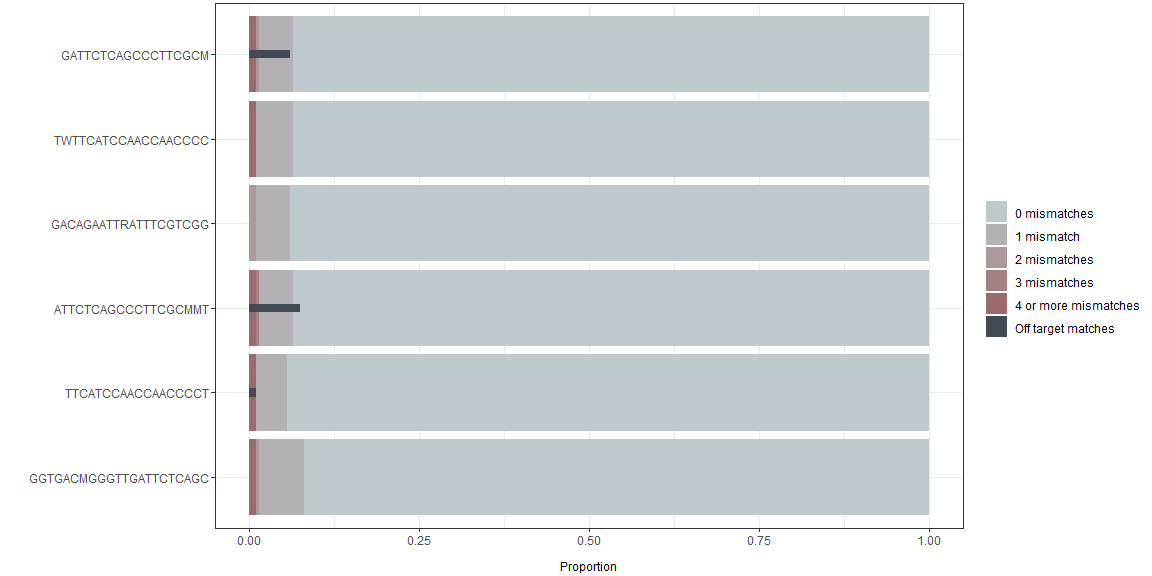
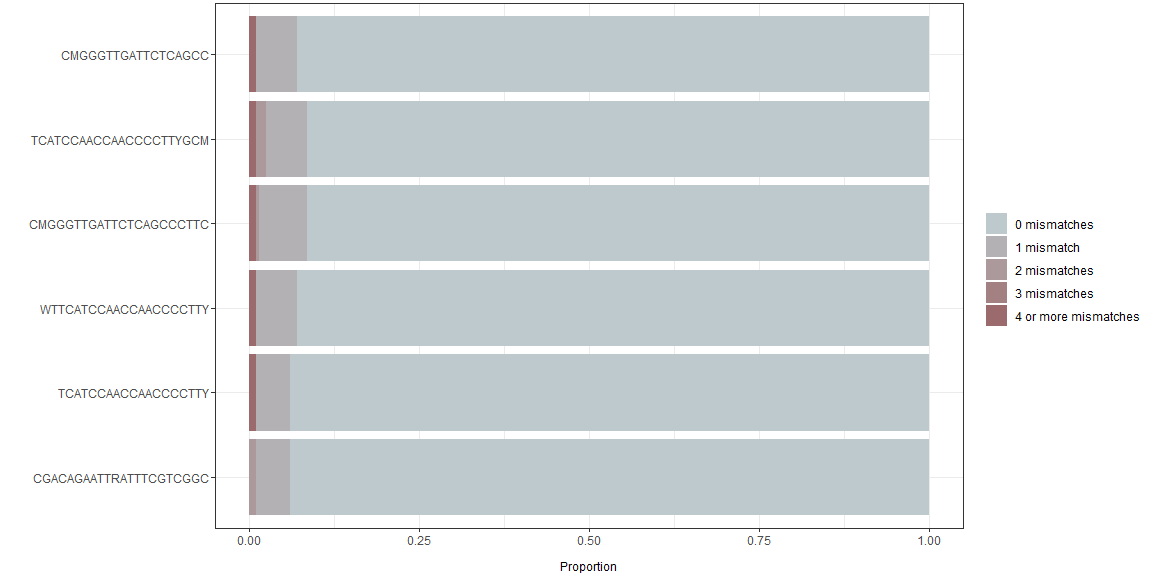
readme

diff --git a/README.md b/README.md
@@ -38,8 +38,9 @@ The package contains five functions:
 
 ## Shiny application
 
-The package can be run through a Shiny application. It is loaded by
-typing `runRprimerApp()` in the R console.
+The package can be run through a Shiny application. It is loaded by:
+
+  - `runRprimerApp()`
 
 ## Workflow
 
@@ -158,14 +159,14 @@ myAssays <- assays(myOligos)
 
 Results (first six rows):
 
-| start |  end | ampliconLength | totalDegeneracy | score | startFwd | endFwd | lengthFwd | iupacSequenceFwd     | identityFwd | coverageFwd | degeneracyFwd | gcContentMeanFwd | gcContentRangeFwd | tmMeanFwd | tmRangeFwd | deltaGMeanFwd | deltaGRangeFwd | sequenceFwd | gcContentFwd | tmFwd      | deltaGFwd   | methodFwd | startRev | endRev | lengthRev | iupacSequenceRev     | identityRev | coverageRev | degeneracyRev | gcContentMeanRev | gcContentRangeRev | tmMeanRev | tmRangeRev | deltaGMeanRev | deltaGRangeRev | sequenceRev | gcContentRev | tmRev      | deltaGRev   | methodRev | plusPr | minusPr | startPr | endPr | lengthPr | iupacSequencePr        | iupacSequenceRcPr      | identityPr | coveragePr | degeneracyPr | gcContentMeanPr | gcContentRangePr | tmMeanPr | tmRangePr | deltaGMeanPr | deltaGRangePr | sequencePr | sequenceRcPr | gcContentPr | tmPr       | deltaGPr    | methodPr  | roiStart | roiEnd |
-| ----: | ---: | -------------: | --------------: | ----: | -------: | -----: | --------: | :------------------- | ----------: | ----------: | ------------: | ---------------: | ----------------: | --------: | ---------: | ------------: | -------------: | :---------- | :----------- | :--------- | :---------- | :-------- | -------: | -----: | --------: | :------------------- | ----------: | ----------: | ------------: | ---------------: | ----------------: | --------: | ---------: | ------------: | -------------: | :---------- | :----------- | :--------- | :---------- | :-------- | :----- | :------ | ------: | ----: | -------: | :--------------------- | :--------------------- | ---------: | ---------: | -----------: | --------------: | ---------------: | -------: | --------: | -----------: | ------------: | :--------- | :----------- | :---------- | :--------- | :---------- | :-------- | -------: | -----: |
-|  5926 | 5994 |             69 |               6 |    11 |     5926 |   5945 |        20 | GGCRGTGGTTTCTGGGGTGA |        0.98 |           1 |             2 |             0.62 |              0.05 |     62.84 |       2.51 |      \-208.58 |          12.45 | GGCAGTGG….  | 0.6, 0.65    | 61.57995…. | \-202.350…. | ambiguous |     5975 |   5994 |        20 | GTTGGTTGGATGAASATAGG |           1 |           1 |             2 |              0.4 |                 0 |     50.71 |        1.1 |      \-152.68 |           5.21 | GTTGGTTG….  | 0.4, 0.4     | 50.15469…. | \-150.078…. | ambiguous | TRUE   | FALSE   |    5946 |  5963 |       18 | CMGGGTTGATTCTCAGCC     | GGCTGAGAATCAACCCKG     |       0.98 |          1 |            2 |            0.58 |             0.06 |    55.14 |      2.79 |     \-170.55 |         12.45 | CAGGGTTG…. | GGCTGAGA….   | 0.555555….  | 53.74554…. | \-164.324…. | ambiguous |        1 |   7997 |
-|  5926 | 5994 |             69 |               6 |    12 |     5926 |   5945 |        20 | GGCRGTGGTTTCTGGGGTGA |        0.98 |           1 |             2 |             0.62 |              0.05 |     62.84 |       2.51 |      \-208.58 |          12.45 | GGCAGTGG….  | 0.6, 0.65    | 61.57995…. | \-202.350…. | ambiguous |     5975 |   5994 |        20 | GTTGGTTGGATGAASATAGG |           1 |           1 |             2 |              0.4 |                 0 |     50.71 |        1.1 |      \-152.68 |           5.21 | GTTGGTTG….  | 0.4, 0.4     | 50.15469…. | \-150.078…. | ambiguous | TRUE   | FALSE   |    5946 |  5964 |       19 | CMGGGTTGATTCTCAGCCC    | GGGCTGAGAATCAACCCKG    |       0.98 |          1 |            2 |            0.61 |             0.05 |    57.63 |      2.64 |     \-185.41 |         12.45 | CAGGGTTG…. | GGGCTGAG….   | 0.578947….  | 56.30713…. | \-179.185…. | ambiguous |        1 |   7997 |
-|  5926 | 5994 |             69 |               6 |    11 |     5926 |   5945 |        20 | GGCRGTGGTTTCTGGGGTGA |        0.98 |           1 |             2 |             0.62 |              0.05 |     62.84 |       2.51 |      \-208.58 |          12.45 | GGCAGTGG….  | 0.6, 0.65    | 61.57995…. | \-202.350…. | ambiguous |     5975 |   5994 |        20 | GTTGGTTGGATGAASATAGG |           1 |           1 |             2 |              0.4 |                 0 |     50.71 |        1.1 |      \-152.68 |           5.21 | GTTGGTTG….  | 0.4, 0.4     | 50.15469…. | \-150.078…. | ambiguous | TRUE   | TRUE    |    5946 |  5965 |       20 | CMGGGTTGATTCTCAGCCCT   | AGGGCTGAGAATCAACCCKG   |       0.98 |          1 |            2 |            0.58 |             0.05 |    58.87 |      2.55 |     \-194.26 |         12.45 | CAGGGTTG…. | AGGGCTGA….   | 0.55, 0.6   | 57.59836…. | \-188.035…. | ambiguous |        1 |   7997 |
-|  5926 | 5994 |             69 |               6 |    10 |     5926 |   5945 |        20 | GGCRGTGGTTTCTGGGGTGA |        0.98 |           1 |             2 |             0.62 |              0.05 |     62.84 |       2.51 |      \-208.58 |          12.45 | GGCAGTGG….  | 0.6, 0.65    | 61.57995…. | \-202.350…. | ambiguous |     5975 |   5994 |        20 | GTTGGTTGGATGAASATAGG |           1 |           1 |             2 |              0.4 |                 0 |     50.71 |        1.1 |      \-152.68 |           5.21 | GTTGGTTG….  | 0.4, 0.4     | 50.15469…. | \-150.078…. | ambiguous | TRUE   | TRUE    |    5946 |  5966 |       21 | CMGGGTTGATTCTCAGCCCTT  | AAGGGCTGAGAATCAACCCKG  |       0.98 |          1 |            2 |            0.55 |             0.05 |    59.21 |      2.43 |     \-200.78 |         12.45 | CAGGGTTG…. | AAGGGCTG….   | 0.523809….  | 57.99472…. | \-194.553…. | ambiguous |        1 |   7997 |
-|  5926 | 5994 |             69 |               6 |    11 |     5926 |   5945 |        20 | GGCRGTGGTTTCTGGGGTGA |        0.98 |           1 |             2 |             0.62 |              0.05 |     62.84 |       2.51 |      \-208.58 |          12.45 | GGCAGTGG….  | 0.6, 0.65    | 61.57995…. | \-202.350…. | ambiguous |     5975 |   5994 |        20 | GTTGGTTGGATGAASATAGG |           1 |           1 |             2 |              0.4 |                 0 |     50.71 |        1.1 |      \-152.68 |           5.21 | GTTGGTTG….  | 0.4, 0.4     | 50.15469…. | \-150.078…. | ambiguous | TRUE   | FALSE   |    5946 |  5967 |       22 | CMGGGTTGATTCTCAGCCCTTC | GAAGGGCTGAGAATCAACCCKG |       0.98 |          1 |            2 |            0.57 |             0.05 |    59.91 |      2.28 |     \-211.11 |         12.45 | CAGGGTTG…. | GAAGGGCT….   | 0.545454….  | 58.77533…. | \-204.881…. | ambiguous |        1 |   7997 |
-|  5926 | 5994 |             69 |               6 |    10 |     5926 |   5945 |        20 | GGCRGTGGTTTCTGGGGTGA |        0.98 |           1 |             2 |             0.62 |              0.05 |     62.84 |       2.51 |      \-208.58 |          12.45 | GGCAGTGG….  | 0.6, 0.65    | 61.57995…. | \-202.350…. | ambiguous |     5975 |   5994 |        20 | GTTGGTTGGATGAASATAGG |           1 |           1 |             2 |              0.4 |                 0 |     50.71 |        1.1 |      \-152.68 |           5.21 | GTTGGTTG….  | 0.4, 0.4     | 50.15469…. | \-150.078…. | ambiguous | TRUE   | FALSE   |    5947 |  5964 |       18 | MGGGTTGATTCTCAGCCC     | GGGCTGAGAATCAACCCK     |       0.98 |          1 |            2 |            0.58 |             0.06 |    55.71 |      1.65 |     \-172.09 |          9.37 | AGGGTTGA…. | GGGCTGAG….   | 0.555555….  | 54.88806…. | \-167.409…. | ambiguous |        1 |   7997 |
+| start |  end | length | totalDegeneracy | score | startFwd | endFwd | lengthFwd | iupacSequenceFwd     | identityFwd | coverageFwd | degeneracyFwd | gcContentMeanFwd | gcContentRangeFwd | tmMeanFwd | tmRangeFwd | deltaGMeanFwd | deltaGRangeFwd | sequenceFwd | gcContentFwd | tmFwd      | deltaGFwd   | methodFwd | startRev | endRev | lengthRev | iupacSequenceRev     | identityRev | coverageRev | degeneracyRev | gcContentMeanRev | gcContentRangeRev | tmMeanRev | tmRangeRev | deltaGMeanRev | deltaGRangeRev | sequenceRev | gcContentRev | tmRev      | deltaGRev   | methodRev | plusPr | minusPr | startPr | endPr | lengthPr | iupacSequencePr        | iupacSequenceRcPr      | identityPr | coveragePr | degeneracyPr | gcContentMeanPr | gcContentRangePr | tmMeanPr | tmRangePr | deltaGMeanPr | deltaGRangePr | sequencePr | sequenceRcPr | gcContentPr | tmPr       | deltaGPr    | methodPr  | roiStart | roiEnd |
+| ----: | ---: | -----: | --------------: | ----: | -------: | -----: | --------: | :------------------- | ----------: | ----------: | ------------: | ---------------: | ----------------: | --------: | ---------: | ------------: | -------------: | :---------- | :----------- | :--------- | :---------- | :-------- | -------: | -----: | --------: | :------------------- | ----------: | ----------: | ------------: | ---------------: | ----------------: | --------: | ---------: | ------------: | -------------: | :---------- | :----------- | :--------- | :---------- | :-------- | :----- | :------ | ------: | ----: | -------: | :--------------------- | :--------------------- | ---------: | ---------: | -----------: | --------------: | ---------------: | -------: | --------: | -----------: | ------------: | :--------- | :----------- | :---------- | :--------- | :---------- | :-------- | -------: | -----: |
+|  5926 | 5994 |     69 |               6 |    11 |     5926 |   5945 |        20 | GGCRGTGGTTTCTGGGGTGA |        0.98 |           1 |             2 |             0.62 |              0.05 |     62.84 |       2.51 |      \-208.58 |          12.45 | GGCAGTGG….  | 0.6, 0.65    | 61.57995…. | \-202.350…. | ambiguous |     5975 |   5994 |        20 | GTTGGTTGGATGAASATAGG |           1 |           1 |             2 |              0.4 |                 0 |     50.71 |        1.1 |      \-152.68 |           5.21 | GTTGGTTG….  | 0.4, 0.4     | 50.15469…. | \-150.078…. | ambiguous | TRUE   | FALSE   |    5946 |  5963 |       18 | CMGGGTTGATTCTCAGCC     | GGCTGAGAATCAACCCKG     |       0.98 |          1 |            2 |            0.58 |             0.06 |    55.14 |      2.79 |     \-170.55 |         12.45 | CAGGGTTG…. | GGCTGAGA….   | 0.555555….  | 53.74554…. | \-164.324…. | ambiguous |        1 |   7997 |
+|  5926 | 5994 |     69 |               6 |    12 |     5926 |   5945 |        20 | GGCRGTGGTTTCTGGGGTGA |        0.98 |           1 |             2 |             0.62 |              0.05 |     62.84 |       2.51 |      \-208.58 |          12.45 | GGCAGTGG….  | 0.6, 0.65    | 61.57995…. | \-202.350…. | ambiguous |     5975 |   5994 |        20 | GTTGGTTGGATGAASATAGG |           1 |           1 |             2 |              0.4 |                 0 |     50.71 |        1.1 |      \-152.68 |           5.21 | GTTGGTTG….  | 0.4, 0.4     | 50.15469…. | \-150.078…. | ambiguous | TRUE   | FALSE   |    5946 |  5964 |       19 | CMGGGTTGATTCTCAGCCC    | GGGCTGAGAATCAACCCKG    |       0.98 |          1 |            2 |            0.61 |             0.05 |    57.63 |      2.64 |     \-185.41 |         12.45 | CAGGGTTG…. | GGGCTGAG….   | 0.578947….  | 56.30713…. | \-179.185…. | ambiguous |        1 |   7997 |
+|  5926 | 5994 |     69 |               6 |    11 |     5926 |   5945 |        20 | GGCRGTGGTTTCTGGGGTGA |        0.98 |           1 |             2 |             0.62 |              0.05 |     62.84 |       2.51 |      \-208.58 |          12.45 | GGCAGTGG….  | 0.6, 0.65    | 61.57995…. | \-202.350…. | ambiguous |     5975 |   5994 |        20 | GTTGGTTGGATGAASATAGG |           1 |           1 |             2 |              0.4 |                 0 |     50.71 |        1.1 |      \-152.68 |           5.21 | GTTGGTTG….  | 0.4, 0.4     | 50.15469…. | \-150.078…. | ambiguous | TRUE   | TRUE    |    5946 |  5965 |       20 | CMGGGTTGATTCTCAGCCCT   | AGGGCTGAGAATCAACCCKG   |       0.98 |          1 |            2 |            0.58 |             0.05 |    58.87 |      2.55 |     \-194.26 |         12.45 | CAGGGTTG…. | AGGGCTGA….   | 0.55, 0.6   | 57.59836…. | \-188.035…. | ambiguous |        1 |   7997 |
+|  5926 | 5994 |     69 |               6 |    10 |     5926 |   5945 |        20 | GGCRGTGGTTTCTGGGGTGA |        0.98 |           1 |             2 |             0.62 |              0.05 |     62.84 |       2.51 |      \-208.58 |          12.45 | GGCAGTGG….  | 0.6, 0.65    | 61.57995…. | \-202.350…. | ambiguous |     5975 |   5994 |        20 | GTTGGTTGGATGAASATAGG |           1 |           1 |             2 |              0.4 |                 0 |     50.71 |        1.1 |      \-152.68 |           5.21 | GTTGGTTG….  | 0.4, 0.4     | 50.15469…. | \-150.078…. | ambiguous | TRUE   | TRUE    |    5946 |  5966 |       21 | CMGGGTTGATTCTCAGCCCTT  | AAGGGCTGAGAATCAACCCKG  |       0.98 |          1 |            2 |            0.55 |             0.05 |    59.21 |      2.43 |     \-200.78 |         12.45 | CAGGGTTG…. | AAGGGCTG….   | 0.523809….  | 57.99472…. | \-194.553…. | ambiguous |        1 |   7997 |
+|  5926 | 5994 |     69 |               6 |    11 |     5926 |   5945 |        20 | GGCRGTGGTTTCTGGGGTGA |        0.98 |           1 |             2 |             0.62 |              0.05 |     62.84 |       2.51 |      \-208.58 |          12.45 | GGCAGTGG….  | 0.6, 0.65    | 61.57995…. | \-202.350…. | ambiguous |     5975 |   5994 |        20 | GTTGGTTGGATGAASATAGG |           1 |           1 |             2 |              0.4 |                 0 |     50.71 |        1.1 |      \-152.68 |           5.21 | GTTGGTTG….  | 0.4, 0.4     | 50.15469…. | \-150.078…. | ambiguous | TRUE   | FALSE   |    5946 |  5967 |       22 | CMGGGTTGATTCTCAGCCCTTC | GAAGGGCTGAGAATCAACCCKG |       0.98 |          1 |            2 |            0.57 |             0.05 |    59.91 |      2.28 |     \-211.11 |         12.45 | CAGGGTTG…. | GAAGGGCT….   | 0.545454….  | 58.77533…. | \-204.881…. | ambiguous |        1 |   7997 |
+|  5926 | 5994 |     69 |               6 |    10 |     5926 |   5945 |        20 | GGCRGTGGTTTCTGGGGTGA |        0.98 |           1 |             2 |             0.62 |              0.05 |     62.84 |       2.51 |      \-208.58 |          12.45 | GGCAGTGG….  | 0.6, 0.65    | 61.57995…. | \-202.350…. | ambiguous |     5975 |   5994 |        20 | GTTGGTTGGATGAASATAGG |           1 |           1 |             2 |              0.4 |                 0 |     50.71 |        1.1 |      \-152.68 |           5.21 | GTTGGTTG….  | 0.4, 0.4     | 50.15469…. | \-150.078…. | ambiguous | TRUE   | FALSE   |    5947 |  5964 |       18 | MGGGTTGATTCTCAGCCC     | GGGCTGAGAATCAACCCK     |       0.98 |          1 |            2 |            0.58 |             0.06 |    55.71 |      1.65 |     \-172.09 |          9.37 | AGGGTTGA…. | GGGCTGAG….   | 0.555555….  | 54.88806…. | \-167.409…. | ambiguous |        1 |   7997 |
 
 The assays can be visualized using `plotData()`:
 
@@ -189,14 +190,14 @@ matchTableOligos <- checkMatch(myOligos[selection, ], target = myAlignment)
 
 Results:
 
-| iupacSequence          | perfectMatch | idPerfectMatch | oneMismatch | idOneMismatch | twoMismatches | idTwoMismatches | threeMismatches | idThreeMismatches | fourOrMoreMismatches | idFourOrMoreMmismatches | offTargetMatch | idOffTargetMatch |
-| :--------------------- | -----------: | :------------- | ----------: | :------------ | ------------: | :-------------- | --------------: | :---------------- | -------------------: | :---------------------- | -------------: | :--------------- |
-| GATTCTCAGCCCTTCGCM     |         0.94 | M73218.1….     |        0.05 | AB222183….    |          0.00 | JF443725.1      |               0 |                   |                 0.01 | MN614142….              |           0.06 | AB073912….       |
-| TWTTCATCCAACCAACCCC    |         0.94 | M73218.1….     |        0.06 | FJ457024….    |          0.00 |                 |               0 |                   |                 0.01 | MN614142….              |           0.00 |                  |
-| GACAGAATTRATTTCGTCGG   |         0.94 | M73218.1….     |        0.05 | AY575857….    |          0.01 | MH410175….      |               0 |                   |                 0.00 |                         |           0.00 |                  |
-| ATTCTCAGCCCTTCGCMMT    |         0.94 | M73218.1….     |        0.05 | AB222183….    |          0.00 |                 |               0 | JF443725.1        |                 0.01 | MN614142….              |           0.07 | X99441.1….       |
-| TTCATCCAACCAACCCCT     |         0.94 | M73218.1….     |        0.04 | FJ457024….    |          0.00 |                 |               0 |                   |                 0.01 | MN614142….              |           0.01 | MG573193….       |
-| GGTGACMGGGTTGATTCTCAGC |         0.92 | M73218.1….     |        0.06 | AB222183….    |          0.00 | JQ953665.1      |               0 |                   |                 0.01 | MN614142….              |           0.00 |                  |
+| iupacSequence          | perfectMatch | idPerfectMatch | oneMismatch | idOneMismatch | twoMismatches | idTwoMismatches | threeMismatches | idThreeMismatches | fourOrMoreMismatches | idFourOrMoreMmismatches |
+| :--------------------- | -----------: | :------------- | ----------: | :------------ | ------------: | :-------------- | --------------: | :---------------- | -------------------: | :---------------------- |
+| CMGGGTTGATTCTCAGCC     |         0.93 | M73218.1….     |        0.06 | AB222183….    |          0.00 |                 |               0 |                   |                 0.01 | MN614142….              |
+| TCATCCAACCAACCCCTTYGCM |         0.92 | M73218.1….     |        0.06 | FJ457024….    |          0.01 | AY575857….      |               0 |                   |                 0.01 | MN614142….              |
+| CMGGGTTGATTCTCAGCCCTTC |         0.92 | M73218.1….     |        0.07 | AY575857….    |          0.00 | AB222183.1      |               0 |                   |                 0.01 | MN614142….              |
+| WTTCATCCAACCAACCCCTTY  |         0.93 | M73218.1….     |        0.06 | FJ457024….    |          0.00 |                 |               0 |                   |                 0.01 | MN614142….              |
+| TCATCCAACCAACCCCTTY    |         0.94 | M73218.1….     |        0.05 | FJ457024….    |          0.00 |                 |               0 |                   |                 0.01 | MN614142….              |
+| CGACAGAATTRATTTCGTCGGC |         0.94 | M73218.1….     |        0.05 | AY575857….    |          0.01 | MH410175….      |               0 |                   |                 0.00 |                         |
 
 The match table can be visualized using `plotData()`:
 
